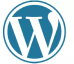
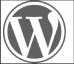
update skills to use Node and PHP
- use grayscale on wordpress logo

diff --git a/components/TheTopSkills.vue b/components/TheTopSkills.vue
@@ -11,24 +11,24 @@
       name: 'Vue.js',
     },
     {
-      icon: 'WP.png',
-      name: 'Wordpress',
-    },
-    {
-      icon: 'Java.png',
-      name: 'Java',
+      icon: 'Node.png',
+      name: 'Node JS',
     },
     {
       icon: 'Adobe.png',
       name: 'Adobe Suite',
     },
     {
-      icon: 'MySQL.png',
-      name: 'MySQL',
+      icon: 'PHP.png',
+      name: 'PHP',
     },
     {
-      icon: 'JS.png',
-      name: 'Javascript',
+      icon: 'WP.png',
+      name: 'Wordpress',
+    },
+    {
+      icon: 'MySQL.png',
+      name: 'MySQL',
     },
   ]
 
